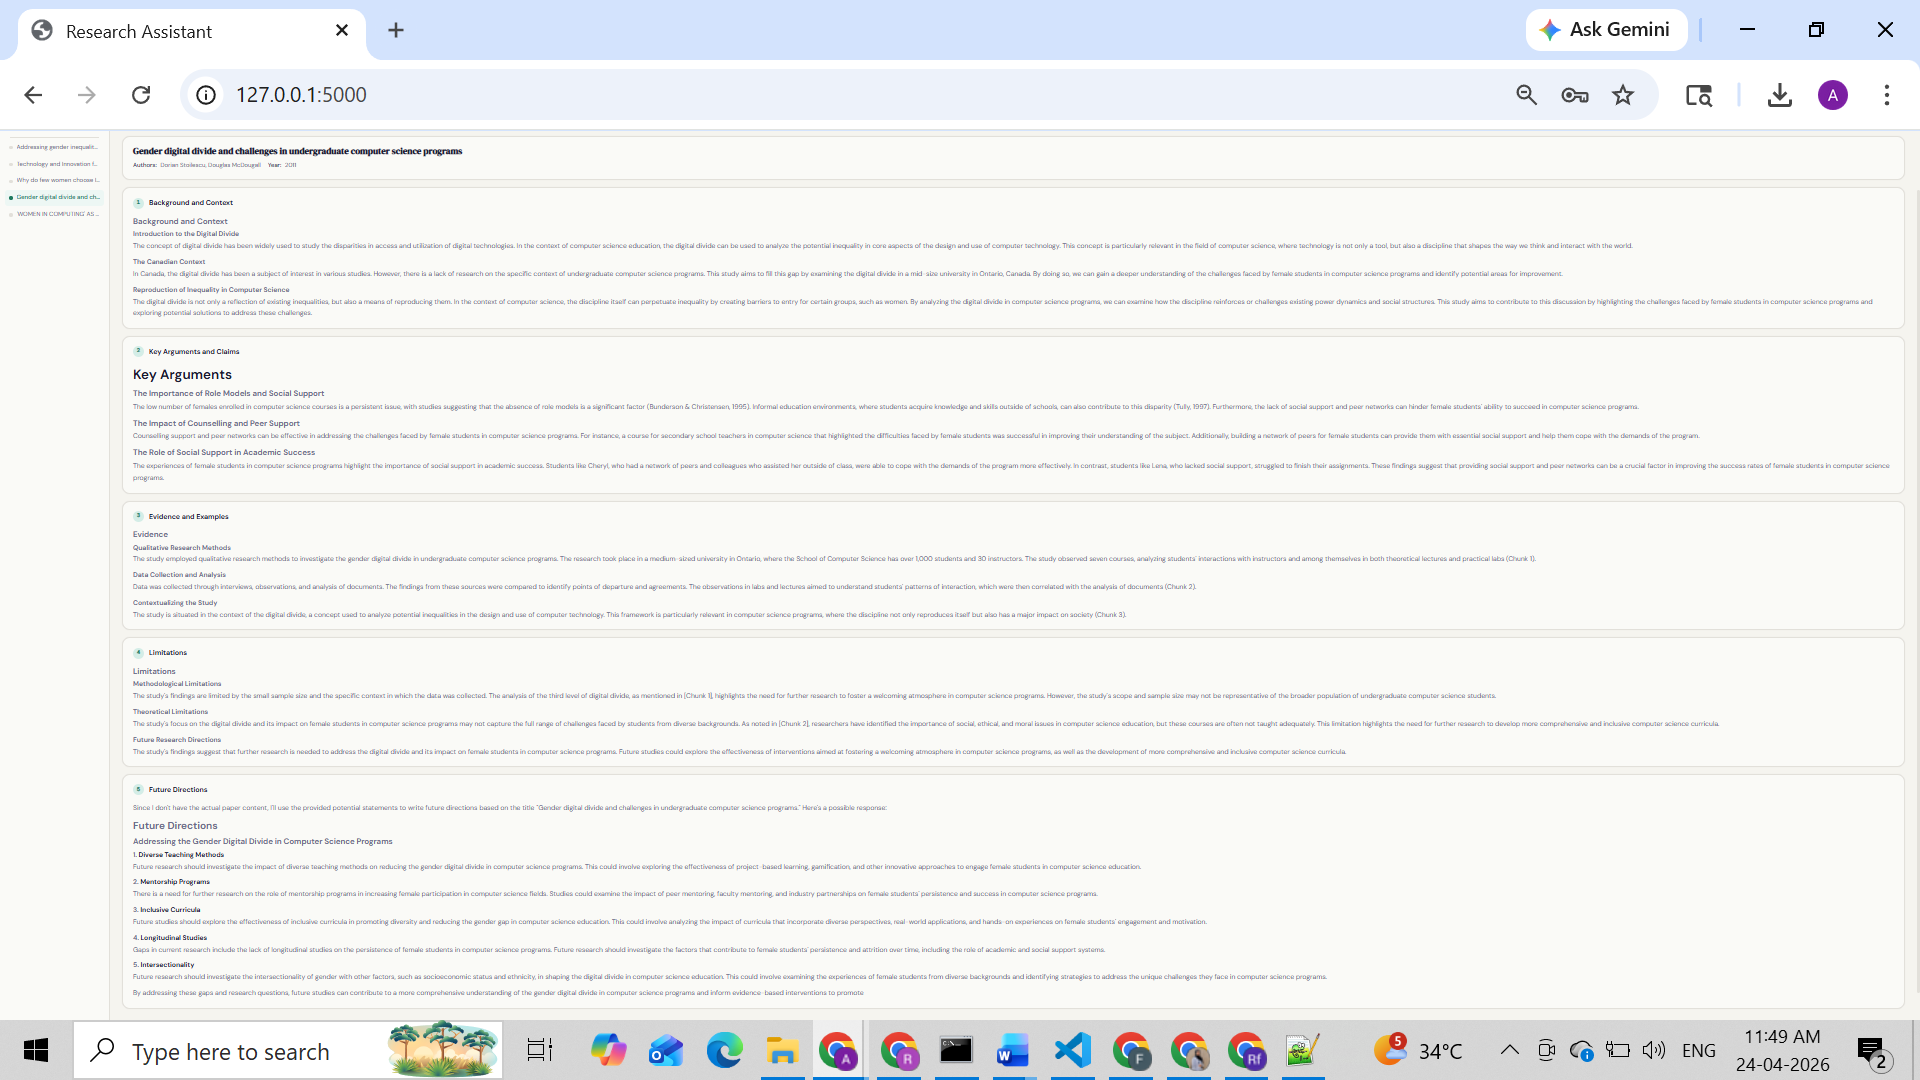
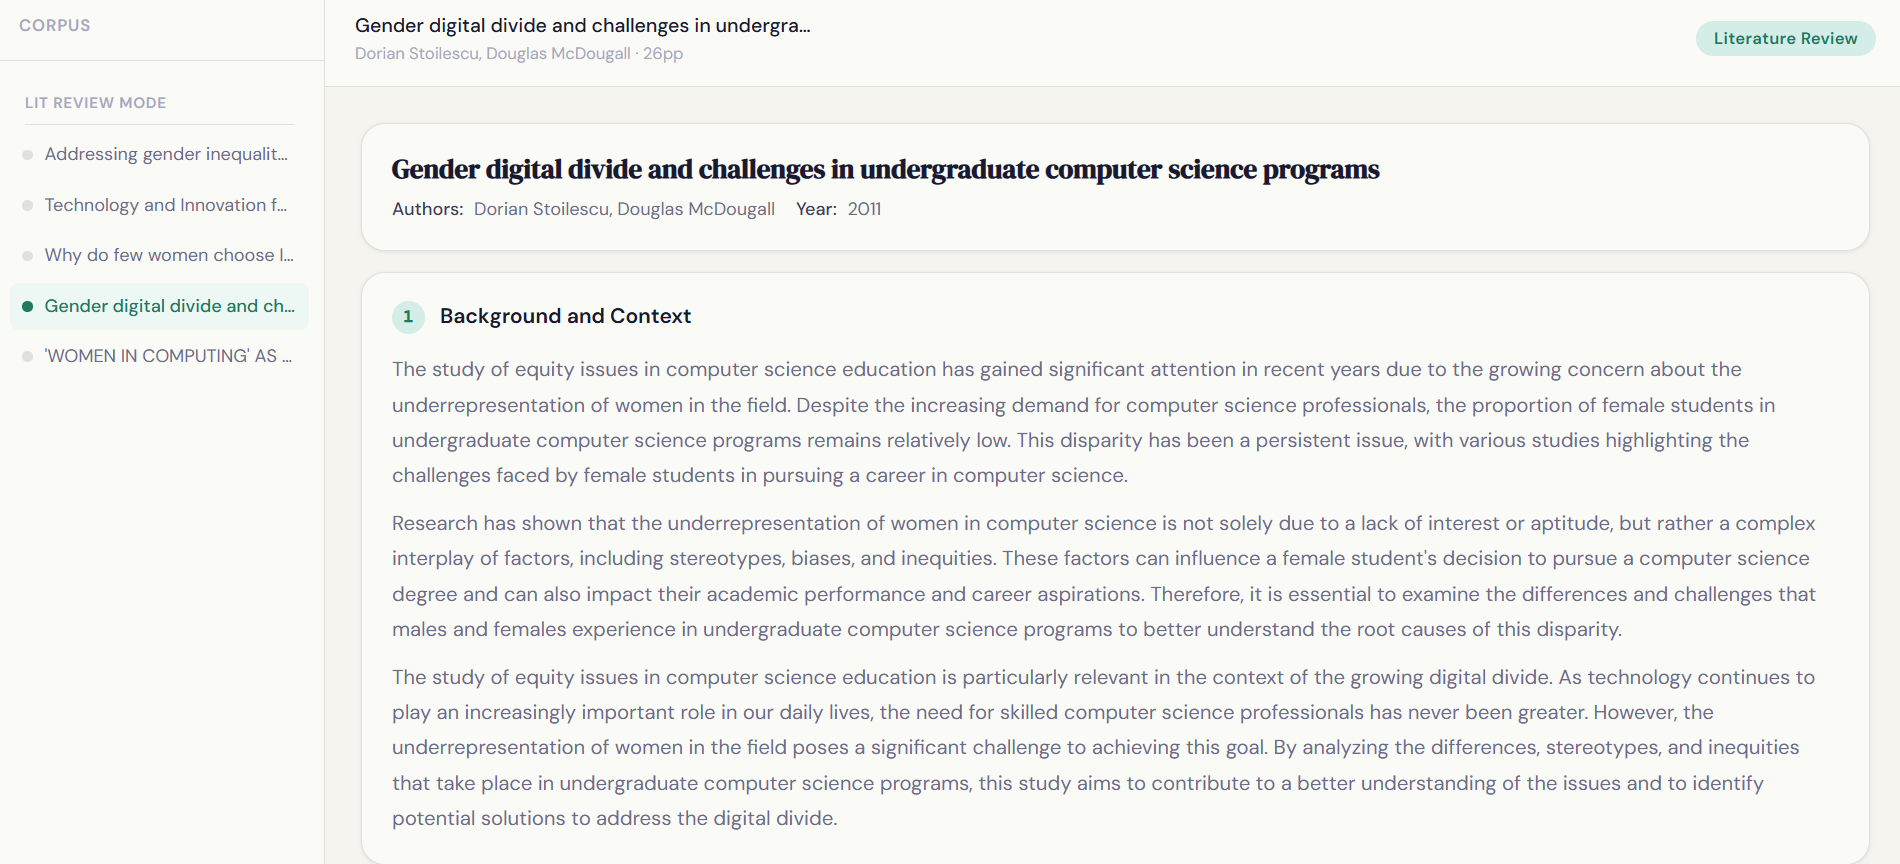
add(6)

Changed region(s): [[0.0, 0.0, 1.0, 1.0]]

diff --git a/README.md b/README.md
@@ -84,7 +84,7 @@ SHA-256 hashing is applied to every file before processing for content level ded
 
 ## Dual Path Metadata Extraction
 
-### Path A — Scanned and OCR Pipeline
+### Path A - Scanned and OCR Pipeline
 
 - Heading extraction via `ocr_extract_headings()` using four compiled regex patterns targeting Roman numeral headings, decimal headings, and known all-caps section names
 - OCR corruption corrections: `H.` → `II.`, `n.` → `II.`, `m.` → `III.`
@@ -93,7 +93,7 @@ SHA-256 hashing is applied to every file before processing for content level ded
 - Image page detection via `detect_image_pages()` — pages rendered to PNG at 2x resolution and submitted to `meta-llama/llama-4-scout-17b-16e-instruct` via Groq vision API
 - Title and authors: Groq LLM first, regex fallback via `ocr_extract_title_authors()`
 
-### Path B — Digital Born Pipeline
+### Path B - Digital Born Pipeline
 
 - LlamaIndex `SimpleDirectoryReader` for primary text extraction
 - LlamaIndex output preferred over PyMuPDF if:
@@ -347,19 +347,7 @@ Evaluated across 18 questions spanning 5 humanities papers. Claude generated res
 ---
 
 ## Project Structure
-research_assistant/
-├── app.py # Flask backend — all pipeline logic
-├── requirements.txt # Python dependencies
-├── .env # Groq API key (never commit)
-├── .gitignore
-├── templates/
-│ └── index.html # Three page SPA frontend
-├── static/
-│ └── research_assistant_logo1.jpg
-├── uploads/ # Auto created — uploaded PDFs
-├── papers/ # Auto created — accepted paper store
-├── metadata/ # Auto created — metadata_registry.json
-└── chunks_store/ # Auto created — chunks.json, faiss_index.bin
+![Project Structure](static/screenshots/structure.png)
 
 
 ---
